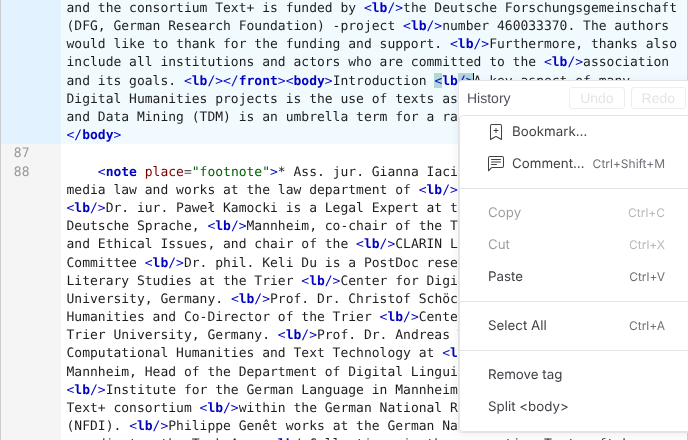
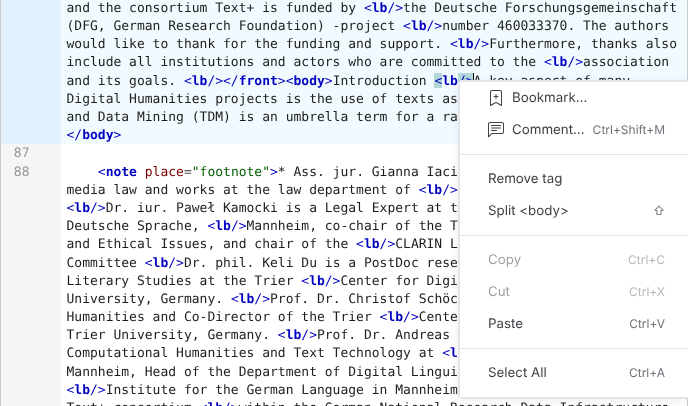
feat(xmleditor): move markup commands up in the context menu, mark Shift variants, hide History
Remove tag and the split entries follow the entries that plugins prepend (Bookmark, Comment), so they are no longer cut off at the bottom. Dividers that end up at the start or end of the menu or next to another divider are hidden. Entries with a Shift variant carry a ⇧ hint. The History row (Undo/Redo) is hidden; its code is kept for now.

Claude-Session: https://claude.ai/code/session_01S2kb9f1CeHSpVmGbxmoJMh

diff --git a/app/src/modules/codemirror/xml-editor-context-menu.js b/app/src/modules/codemirror/xml-editor-context-menu.js
@@ -38,6 +38,20 @@ function makeMenuItem(label, shortcut) {
   return item;
 }
 
+/**
+ * A "⇧" hint in the suffix of a menu item that has a variant shown while Shift is held.
+ * @param {string} title - Tooltip of the hint
+ * @returns {HTMLElement}
+ */
+function makeShiftHint(title) {
+  const hint = document.createElement('span');
+  hint.slot = 'suffix';
+  hint.className = 'xml-editor-context-menu__shortcut';
+  hint.textContent = '⇧';
+  hint.title = title;
+  return hint;
+}
+
 export class XmlEditorContextMenu {
   /**
    * @param {XMLEditor} editor
@@ -85,6 +99,10 @@ export class XmlEditorContextMenu {
   #splitItem = null;
   /** @type {HTMLElement|null} */
   #splitLineItem = null;
+  /** @type {Text|null} */
+  #splitLabel = null;
+  /** @type {Text|null} */
+  #splitLineLabel = null;
   /** @type {number} Position at which "Split <tag>" splits, recorded when the menu is shown */
   #splitPos = 0;
   /** @type {number} */
@@ -119,6 +137,8 @@ export class XmlEditorContextMenu {
     redoBtn.textContent = 'Redo';
 
     historyRow.append(historyLabel, undoBtn, redoBtn);
+    // Hidden: undo and redo are rarely used from the context menu. Kept for now.
+    historyRow.style.display = 'none';
     overlay.appendChild(historyRow);
 
     // Diff row — shown only when right-clicking inside a merge-view chunk
@@ -149,27 +169,33 @@ export class XmlEditorContextMenu {
     // sl-menu with built-in items
     const menu = document.createElement('sl-menu');
 
+    // Structural commands come first, below the items that plugins prepend (e.g. "Comment…").
+    // Dividers that end up at the start or end of the menu or next to another one are hidden
+    // when the menu is shown (see #hideRedundantDividers).
+    const structTopSep = document.createElement('sl-divider');
+    const unwrapItem  = document.createElement('sl-menu-item');
+    unwrapItem.textContent = 'Remove tag';
+    const splitItem   = document.createElement('sl-menu-item');
+    const splitLabel  = document.createTextNode('Split element');
+    splitItem.append(splitLabel, makeShiftHint('Hold Shift to split in a new line'));
+    splitItem.dataset.testid = 'split-element-menu-item';
+    splitItem.dataset.hideWith = 'shift';
+    const splitLineItem = document.createElement('sl-menu-item');
+    const splitLineLabel = document.createTextNode('Split element in new line');
+    splitLineItem.append(splitLineLabel, makeShiftHint('Release Shift to split in the same line'));
+    splitLineItem.dataset.testid = 'split-element-newline-menu-item';
+    splitLineItem.dataset.showWith = 'shift';
+    splitLineItem.style.display = 'none';
+    const structSep   = document.createElement('sl-divider');
     const copyItem    = makeMenuItem('Copy',       'Ctrl+C');
     const cutItem     = makeMenuItem('Cut',        'Ctrl+X');
     const pasteItem   = makeMenuItem('Paste',      'Ctrl+V');
     const sep         = document.createElement('sl-divider');
     const selAllItem  = makeMenuItem('Select All', 'Ctrl+A');
-    const editSep     = document.createElement('sl-divider');
-    const unwrapItem  = document.createElement('sl-menu-item');
-    unwrapItem.textContent = 'Remove tag';
-    const splitItem   = document.createElement('sl-menu-item');
-    splitItem.textContent = 'Split element';
-    splitItem.dataset.testid = 'split-element-menu-item';
-    splitItem.dataset.hideWith = 'shift';
-    const splitLineItem = document.createElement('sl-menu-item');
-    splitLineItem.textContent = 'Split element in new line';
-    splitLineItem.dataset.testid = 'split-element-newline-menu-item';
-    splitLineItem.dataset.showWith = 'shift';
-    splitLineItem.style.display = 'none';
     const pluginDiv   = document.createElement('sl-divider');
     pluginDiv.style.display = 'none';
 
-    menu.append(copyItem, cutItem, pasteItem, sep, selAllItem, editSep, unwrapItem, splitItem, splitLineItem, pluginDiv);
+    menu.append(structTopSep, unwrapItem, splitItem, splitLineItem, structSep, copyItem, cutItem, pasteItem, sep, selAllItem, pluginDiv);
     overlay.appendChild(menu);
 
     parent.appendChild(overlay);
@@ -189,6 +215,8 @@ export class XmlEditorContextMenu {
     this.#unwrapItem    = unwrapItem;
     this.#splitItem     = splitItem;
     this.#splitLineItem = splitLineItem;
+    this.#splitLabel    = splitLabel;
+    this.#splitLineLabel = splitLineLabel;
 
     // Bind commands
     undoBtn.addEventListener('click',   () => { undo(this.#editor.getView());       this.#hide(); });
@@ -213,6 +241,7 @@ export class XmlEditorContextMenu {
       evt.preventDefault();
       this.#show(evt.clientX, evt.clientY);
       this.#applyModifier(evt.shiftKey);
+      this.#hideRedundantDividers();
     });
 
     // Dismiss on outside click or Escape
@@ -308,11 +337,9 @@ export class XmlEditorContextMenu {
       this.#splitPos = inSelection ? view.state.selection.main.head : this.#clickDocPos;
       const target = this.#isDocumentEditable() ? findSplitTarget(view.state, this.#splitPos) : null;
       this.#splitItem.disabled = !target;
-      this.#splitItem.textContent = target ? `Split <${target.tagName}>` : 'Split element';
-      if (this.#splitLineItem) {
-        this.#splitLineItem.disabled = !target;
-        this.#splitLineItem.textContent = target ? `Split <${target.tagName}> in new line` : 'Split element in new line';
-      }
+      if (this.#splitLabel) this.#splitLabel.data = target ? `Split <${target.tagName}>` : 'Split element';
+      if (this.#splitLineItem) this.#splitLineItem.disabled = !target;
+      if (this.#splitLineLabel) this.#splitLineLabel.data = target ? `Split <${target.tagName}> in new line` : 'Split element in new line';
     }
 
     // Show "Incoming"/"Current" buttons only when right-clicking inside a merge-view chunk.
@@ -422,6 +449,30 @@ export class XmlEditorContextMenu {
       // Shoelace menu items set `display` on their host, which overrides the `hidden` attribute
       el.style.display = hide ? 'none' : '';
     }
+  }
+
+  /**
+   * Hides dividers at the start or end of the menu and dividers that follow another visible
+   * divider, so that hidden items (e.g. of plugins) leave no double or dangling dividers.
+   */
+  #hideRedundantDividers() {
+    const REDUNDANT = 'xml-editor-context-menu__divider--redundant';
+    /** @param {Element} el */
+    const visible = el => !(/** @type {HTMLElement} */ (el)).hidden && (/** @type {HTMLElement} */ (el)).style.display !== 'none';
+    const children = [...(this.#menu?.children ?? [])];
+    for (const el of children) el.classList.remove(REDUNDANT);
+    /** @type {Element|null} */
+    let previous = null;
+    for (const el of children) {
+      if (!visible(el)) continue;
+      const isDivider = el.tagName === 'SL-DIVIDER';
+      if (isDivider && (previous === null || previous.tagName === 'SL-DIVIDER')) {
+        el.classList.add(REDUNDANT);
+        continue;
+      }
+      previous = el;
+    }
+    if (previous?.tagName === 'SL-DIVIDER') previous.classList.add(REDUNDANT);
   }
 
   #hide() {

diff --git a/tests/e2e/tests/xml-editor-split-element.spec.js b/tests/e2e/tests/xml-editor-split-element.spec.js
@@ -94,14 +94,15 @@ test.describe('Split element', () => {
       await rightClickAt(page, 'n="1"', 1);
       await expect(item).toBeVisible();
       await expect(item).toHaveAttribute('disabled', '');
-      await expect(item).toHaveText('Split element');
+      await expect(item).toContainText('Split element');
       await page.keyboard.press('Escape');
 
       // splits the <p> at the cursor
       await rightClickAt(page, 'Second part');
       await expect(item).toBeVisible();
       await expect(item).not.toHaveAttribute('disabled', '');
-      await expect(item).toHaveText('Split <p>');
+      await expect(item).toContainText('Split <p>');
+      await expect(item.locator('[slot="suffix"]')).toHaveText('⇧');
       await item.click();
 
       let text = await page.evaluate(() => (/** @type {any} */ (window)).app.getDependency('xmleditor').getView().state.doc.toString());
@@ -121,7 +122,7 @@ test.describe('Split element', () => {
       });
       await page.mouse.click(point.x, point.y, { button: 'right' });
       await expect(item).toBeVisible();
-      await expect(item).toHaveText('Split <p>');
+      await expect(item).toContainText('Split <p>');
       await item.click();
       text = await page.evaluate(() => (/** @type {any} */ (window)).app.getDependency('xmleditor').getView().state.doc.toString());
       expect(text).toContain('<p xml:id="p1" n="1">First </p><p n="1">part </p><p n="1">Second part</p>');
@@ -135,7 +136,7 @@ test.describe('Split element', () => {
       await page.keyboard.down('Shift');
       await expect(item).toBeHidden();
       await expect(lineItem).toBeVisible();
-      await expect(lineItem).toHaveText('Split <p> in new line');
+      await expect(lineItem).toContainText('Split <p> in new line');
       await page.keyboard.up('Shift');
       await expect(lineItem).toBeHidden();
       await page.keyboard.down('Shift');

diff --git a/app/web/app.css b/app/web/app.css
@@ -699,6 +699,9 @@ sl-menu[name="pluginsMenu"] small {
   font-size: var(--sl-font-size-x-small);
   color: var(--sl-color-neutral-500);
 }
+.xml-editor-context-menu__divider--redundant {
+  display: none !important;
+}
 /* XML Annotation Mode */
 .ann-badge {
   display: inline-block;

diff --git a/docs/user-manual/editing-workflow.md b/docs/user-manual/editing-workflow.md
@@ -81,14 +81,15 @@ You can type directly in the editor at any time the document is not read-only. T
 
 **Right-click context menu:**
 
+The entries that plugins add, such as **Bookmark…** and **Comment…**, come first, followed by the entries that change the markup and the clipboard operations.
+
 | Item | What it does |
 | --- | --- |
-| Undo / Redo | History buttons at the top of the menu |
 | Current / Incoming | Accept or discard one diff chunk (only shown inside a changed chunk in merge view) |
-| Copy / Cut / Paste / Select All | Standard clipboard operations |
 | Remove tag | Unwrap the tag at the cursor, preserving its text content |
 | Split `<tag>` | Split the element at the right-clicked position (or at the cursor, if you right-click into the selection) into two elements of the same name. The second element gets the attributes of the first one except `xml:id`, and the cursor is placed at its start. Not available inside a tag, comment or entity, or in the root element. Also available in the [visual annotation mode](#splitting-an-annotation) |
 | Split `<tag>` in new line | Shown instead of Split `<tag>` while you hold `Shift`: splits the same way and starts the second element on a new line, indented like the line on which the element starts |
+| Copy / Cut / Paste / Select All | Standard clipboard operations |
 
 To split an element, for example a `<body>` of a segmentation training document that covers two zones, right-click where the second part begins and choose **Split `<tag>`**. The entry shows the name of the element that will be split.
 
@@ -100,7 +101,7 @@ To split an element, for example a `<body>` of a segmentation training document 
 
 *After the split, the text after the cursor is in a second `<body>` element.*
 
-Some entries of the context menu have a variant that is shown instead while you hold `Shift`, either when you right-click or while the menu is open. Holding `Shift` turns **Split `<tag>`** into **Split `<tag>` in new line**, which puts the second element on its own line.
+Some entries of the context menu have a variant that is shown instead while you hold `Shift`, either when you right-click or while the menu is open. These entries are marked with **⇧**. Holding `Shift` turns **Split `<tag>`** into **Split `<tag>` in new line**, which puts the second element on its own line.
 
 ![The context menu opened with Shift held, with the entry "Split <body> in new line" in place of "Split <body>"](../images/editing-workflow-split-element-new-line.png)
 
@@ -335,7 +336,7 @@ Use these commands when a single logical annotation has been split across two sp
 
 Right-click where the second part of an annotated span begins and choose **Split `<tag>`** in the context menu. The element is split into two elements of the same type, each with its own badge. This is the counterpart of the merge commands, for example when one `<body>` of a segmentation document covers two zones.
 
-![The visual annotation mode with the context menu opened in a BODY span before "A key aspect", with the entry "Split <body>" at the bottom](../images/editing-workflow-split-element-visual.png)
+![The visual annotation mode with the context menu opened in a BODY span before "A key aspect", with the entry "Split <body>" below "Remove tag"](../images/editing-workflow-split-element-visual.png)
 
 *Splitting an annotation in the visual mode.*
 

diff --git a/docs/history/2026-11-17-split-element.md b/docs/history/2026-11-17-split-element.md
@@ -14,7 +14,8 @@ The context menu entry "Insert `</tag><tag>`" inserted a tag boundary at the cur
 - Visual annotation mode (review comment on the PR): the mode makes the editor read-only for typing (`XMLEditor.setReadOnly(true)`), which disabled the item. `XmlEditorContextMenu` now takes an `isDocumentEditable` option; the `xmleditor` plugin passes `!state.editorReadOnly`, so splitting works in the visual mode as long as the document is editable.
 - Shift variants (requested in the project thread): menu items with `data-show-with="shift"` are only shown while Shift is held, items with `data-hide-with="shift"` are hidden then. The state is taken from the `contextmenu` event and follows `keydown`/`keyup` of Shift while the menu is open, since Firefox opens its native menu on Shift+right-click. Shoelace menu items set `display` on their host, so the items are hidden with `style.display`, not the `hidden` attribute. The first pair is "Split `<tag>`" / "Split `<tag>` in new line"; `splitElementAt(state, pos, { newLine: true })` inserts a line break and the indentation of the line on which the element starts before the new opening tag.
 
-## Tests
+- Menu layout (requested in the project thread): "Remove tag" and the split items moved from the bottom of the menu to below the items that plugins prepend ("Bookmark…", "Comment…"), between two dividers. Dividers at the start or end of the menu or after another visible divider get the class `xml-editor-context-menu__divider--redundant` (`display: none`) when the menu is shown, so hidden plugin items leave no double dividers. Items with a Shift variant carry a "⇧" suffix. The "History" row (Undo/Redo) is hidden with `display: none`; its code is kept for now.
+
 
 - `tests/unit/js/split-element.test.js`: splitting in text and between children, attribute copy, `xml:id` removal, refused positions, split in new line with indentation.
 - `tests/e2e/tests/xml-editor-split-element.spec.js`: the menu item is disabled inside a tag, splits a `<p>` at the cursor, splits at the right-clicked position while the editor is read-only for typing (as in the visual mode), and swaps in "Split `<p>` in new line" while Shift is held.
